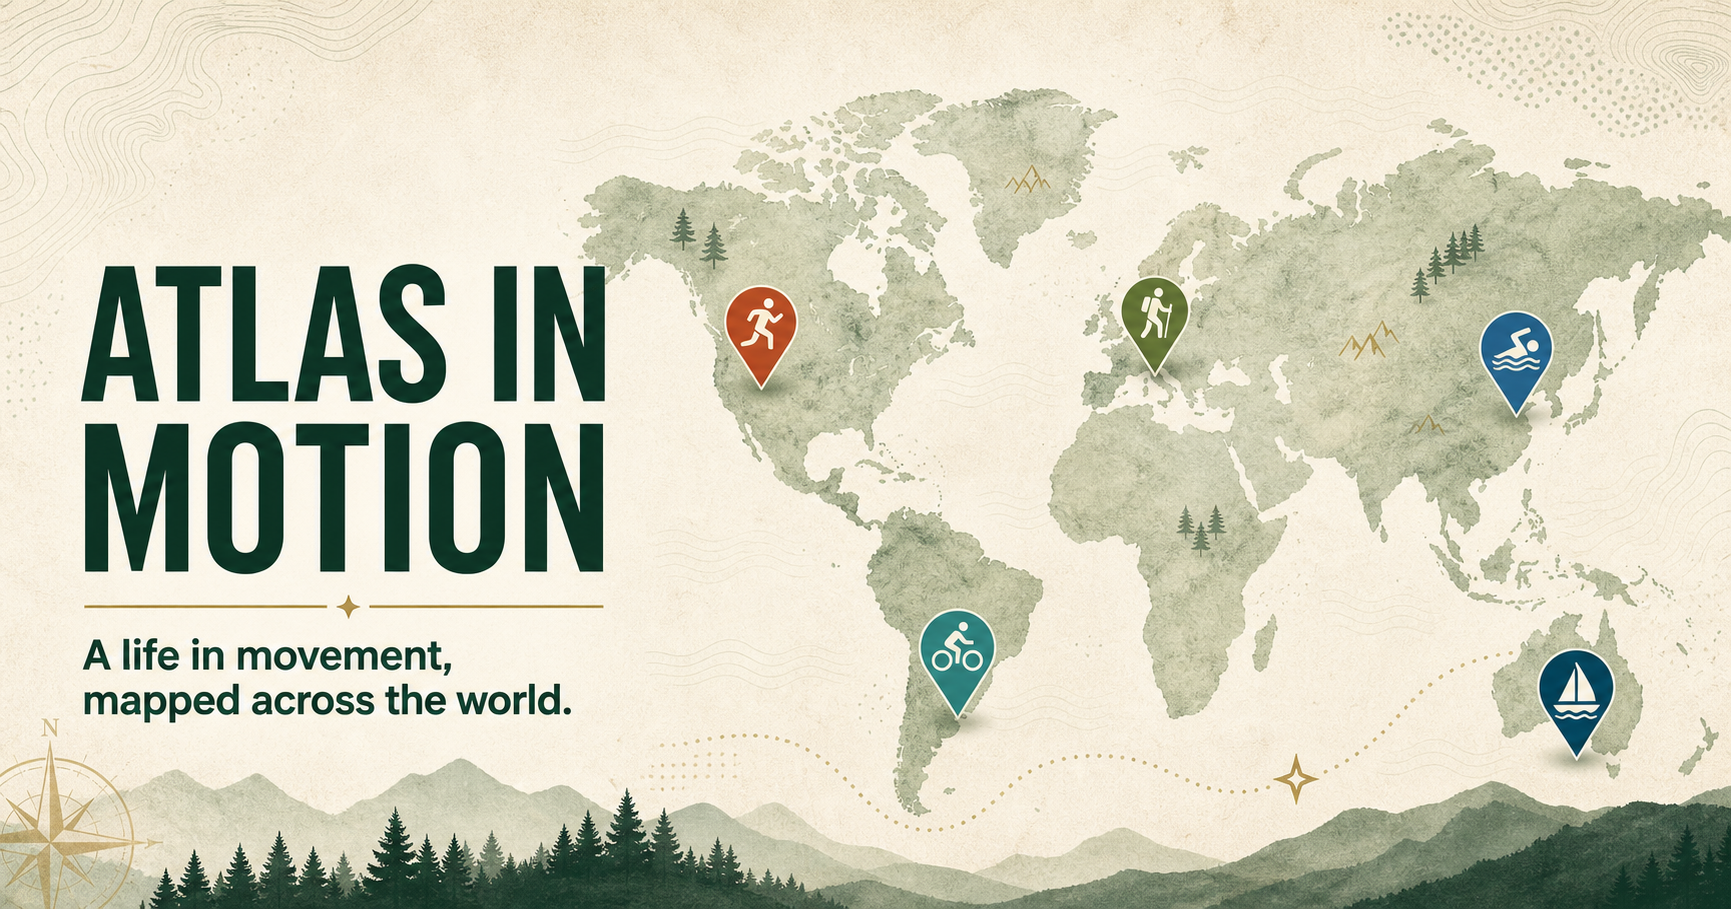
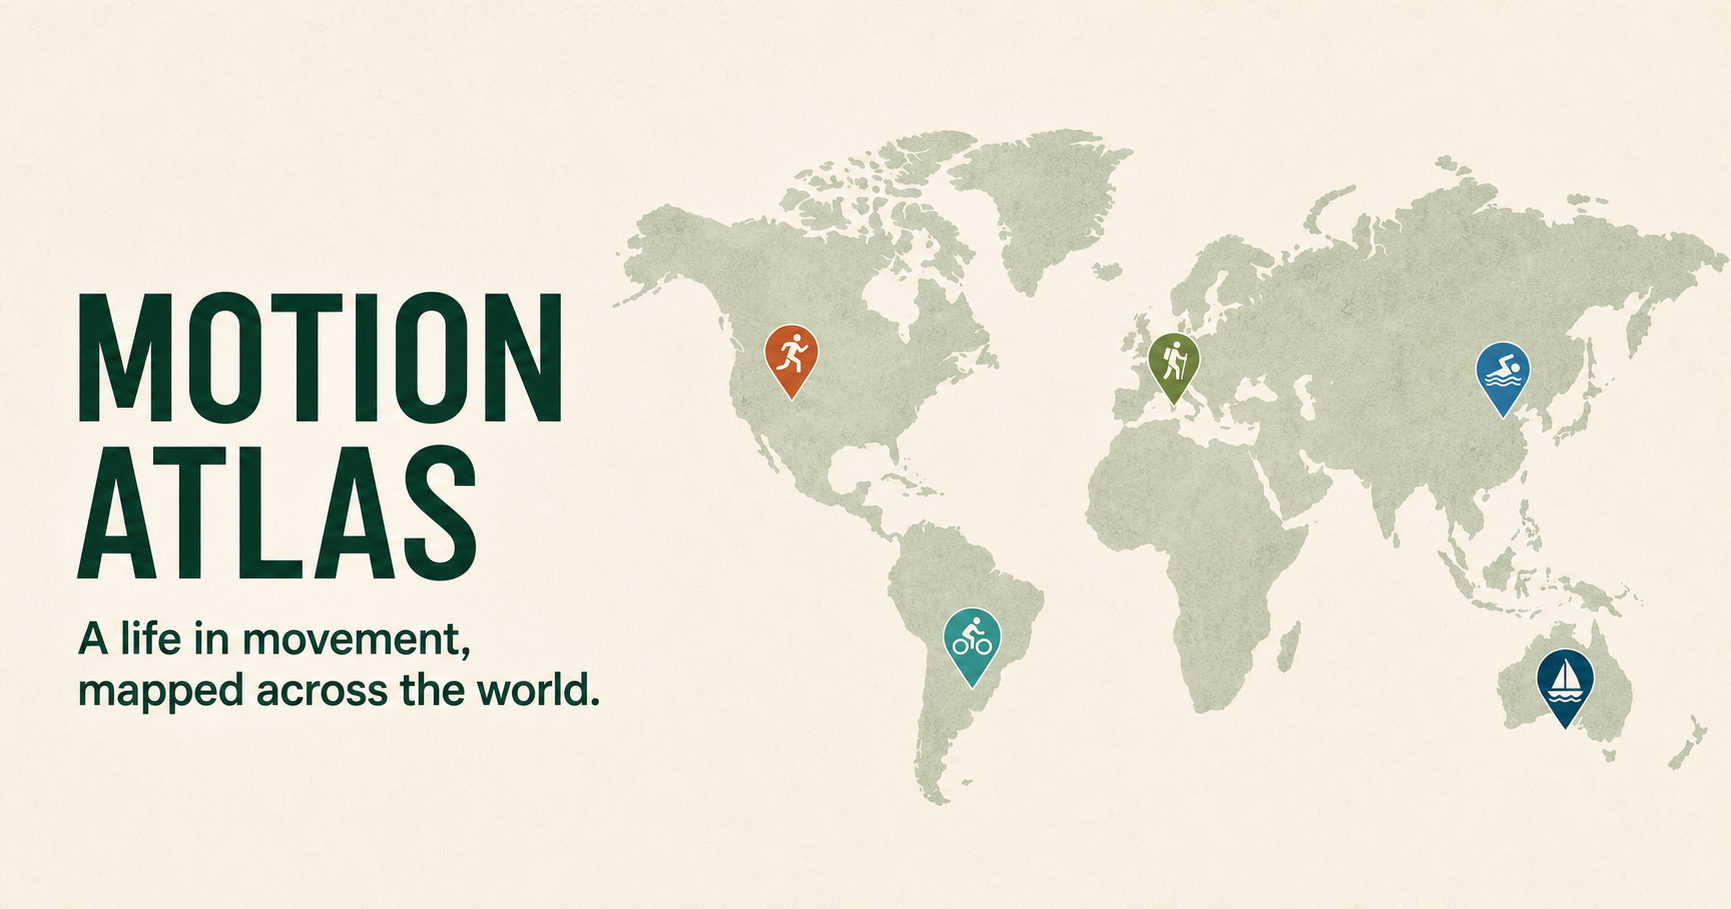
feat: rename and simplify Motion Atlas

diff --git a/src/styles.css b/src/styles.css
@@ -17,45 +17,55 @@ button { font: inherit; }
   inset: 0;
   z-index: 400;
   pointer-events: none;
-  box-shadow: inset 0 0 150px rgb(10 45 35 / 14%);
+  box-shadow: inset 0 0 100px rgb(10 45 35 / 7%);
 }
 
-.leaflet-tile-pane { filter: saturate(0.72) sepia(0.08) contrast(0.92) brightness(1.04); }
-.leaflet-control-zoom { border: 0 !important; box-shadow: 0 12px 30px rgb(16 48 38 / 20%) !important; }
+.leaflet-tile-pane { filter: saturate(0.62) contrast(0.93) brightness(1.06); }
+.leaflet-control-zoom { border: 1px solid #e2e3df !important; box-shadow: 0 6px 20px rgb(16 48 38 / 10%) !important; }
 .leaflet-control-zoom a { color: #173b30 !important; background: #fbfaf5 !important; }
 .leaflet-control-attribution { color: #68756f; background: rgb(250 249 244 / 86%) !important; }
 
 .explorer {
   position: absolute;
   z-index: 800;
-  top: 24px;
-  left: 24px;
-  width: min(392px, calc(100vw - 48px));
-  max-height: calc(100vh - 48px);
-  border: 1px solid rgb(255 255 255 / 66%);
-  border-radius: 26px;
-  background: rgb(250 249 244 / 93%);
-  box-shadow: 0 24px 68px rgb(12 42 33 / 22%);
-  backdrop-filter: blur(20px);
-  transition: width 180ms ease;
+  top: 20px;
+  left: 20px;
+  width: min(360px, calc(100vw - 40px));
+  max-height: calc(100vh - 40px);
+  border: 1px solid #dedfd9;
+  border-radius: 18px;
+  background: rgb(250 249 244 / 96%);
+  box-shadow: 0 10px 34px rgb(12 42 33 / 13%);
+  backdrop-filter: blur(16px);
+  transition: width 160ms ease, height 160ms ease, border-radius 160ms ease;
 }
 
-.explorer__content { max-height: calc(100vh - 48px); padding: 30px; overflow-y: auto; scrollbar-width: thin; }
+.explorer__content { max-height: calc(100vh - 40px); padding: 26px; overflow-y: auto; scrollbar-width: thin; }
 .panel-toggle {
   position: absolute;
   z-index: 2;
-  top: 16px;
-  right: 16px;
-  display: none;
+  top: 12px;
+  right: 12px;
+  display: grid;
+  place-items: center;
   width: 34px;
   height: 34px;
   padding: 0;
-  border: 1px solid #d9ddd8;
-  border-radius: 50%;
+  border: 0;
+  border-radius: 10px;
   color: #21463a;
-  background: #fffef9;
+  background: #f0f1ec;
   cursor: pointer;
 }
+
+.explorer.is-closed {
+  width: 52px;
+  height: 52px;
+  overflow: hidden;
+  border-radius: 16px;
+}
+.explorer.is-closed .panel-toggle { top: 8px; right: 8px; }
+.explorer.is-closed .explorer__content { visibility: hidden; pointer-events: none; }
 
 .brand-row { display: flex; align-items: center; gap: 10px; margin: 0 0 16px; }
 .brand-row p { margin: 0; color: #a94f34; font-size: 0.67rem; font-weight: 800; letter-spacing: 0.15em; }
@@ -68,7 +78,7 @@ button { font: inherit; }
 h1 {
   margin: 0;
   max-width: 300px;
-  font-size: clamp(2.25rem, 4vw, 3.35rem);
+  font-size: clamp(2.15rem, 4vw, 3rem);
   font-weight: 760;
   line-height: 0.96;
   letter-spacing: -0.064em;
@@ -104,8 +114,8 @@ h1 {
   cursor: pointer;
   transition: border-color 140ms ease, background 140ms ease, color 140ms ease, transform 140ms ease;
 }
-.sport-filter:hover { transform: translateY(-1px); border-color: color-mix(in srgb, var(--sport-color) 44%, #d9ddd8); }
-.sport-filter.is-active { color: #1d332b; border-color: color-mix(in srgb, var(--sport-color) 38%, white); background: color-mix(in srgb, var(--sport-color) 9%, #fffef9); }
+.sport-filter:hover { border-color: color-mix(in srgb, var(--sport-color) 28%, #d9ddd8); }
+.sport-filter.is-active { color: #1d332b; border-color: #d8dad5; background: #f2f2ed; }
 .sport-filter__icon { display: grid; width: 26px; height: 26px; place-items: center; border-radius: 9px; color: var(--sport-color); background: color-mix(in srgb, var(--sport-color) 12%, white); }
 .sport-filter__icon svg { width: 13px; height: 13px; }
 .sport-filter__label { overflow: hidden; font-size: 0.75rem; font-weight: 650; text-overflow: ellipsis; white-space: nowrap; }
@@ -128,30 +138,30 @@ h1 {
   border-radius: 999px;
   color: #54645e;
   background: rgb(250 249 244 / 90%);
-  box-shadow: 0 10px 30px rgb(12 42 33 / 15%);
+  box-shadow: 0 6px 20px rgb(12 42 33 / 9%);
   font-size: 0.7rem;
   backdrop-filter: blur(14px);
 }
 .live-dot { width: 7px; height: 7px; border-radius: 50%; background: #42a66f; box-shadow: 0 0 0 3px rgb(66 166 111 / 15%); }
 
 .sport-marker { border: 0; background: transparent; }
-.sport-pin { position: relative; width: 54px; height: 62px; filter: drop-shadow(0 8px 7px rgb(7 37 28 / 24%)); transition: transform 150ms ease; }
+.sport-pin { position: relative; width: 42px; height: 48px; filter: drop-shadow(0 5px 5px rgb(7 37 28 / 19%)); transition: transform 150ms ease; }
 .sport-marker:hover .sport-pin { transform: translateY(-3px); }
 .sport-pin::before {
   content: "";
   position: absolute;
-  left: 7px;
+  left: 6px;
   top: 2px;
-  width: 40px;
-  height: 40px;
-  border: 4px solid #f9f8f2;
-  border-radius: 50% 50% 50% 12px;
+  width: 30px;
+  height: 30px;
+  border: 3px solid #f9f8f2;
+  border-radius: 50% 50% 50% 9px;
   background: var(--sport-color);
   transform: rotate(-45deg);
 }
-.sport-pin__glyph { position: absolute; z-index: 1; top: 11px; left: 16px; display: grid; width: 22px; height: 22px; place-items: center; color: white; }
-.sport-pin__glyph svg { width: 20px; height: 20px; }
-.sport-pin__count { position: absolute; z-index: 2; top: -4px; right: 0; min-width: 22px; height: 22px; padding: 0 6px; border: 2px solid #f9f8f2; border-radius: 11px; color: #173229; background: #f4d974; box-shadow: 0 4px 8px rgb(14 43 34 / 18%); font-size: 0.64rem; font-weight: 800; line-height: 18px; text-align: center; }
+.sport-pin__glyph { position: absolute; z-index: 1; top: 9px; left: 13px; display: grid; width: 16px; height: 16px; place-items: center; color: white; }
+.sport-pin__glyph svg { width: 14px; height: 14px; }
+.sport-pin__count { position: absolute; z-index: 2; top: -3px; right: -2px; min-width: 18px; height: 18px; padding: 0 4px; border: 2px solid #f9f8f2; border-radius: 9px; color: #173229; background: #f4d974; box-shadow: 0 3px 7px rgb(14 43 34 / 14%); font-size: 0.54rem; font-weight: 800; line-height: 14px; text-align: center; }
 
 .activity-popup .leaflet-popup-content-wrapper { overflow: hidden; border-radius: 18px; background: #fbfaf5; box-shadow: 0 18px 55px rgb(8 38 29 / 25%); }
 .activity-popup .leaflet-popup-content { margin: 0; width: auto !important; }
@@ -168,10 +178,8 @@ h1 {
 @media (max-width: 720px) {
   .explorer { top: 12px; left: 12px; width: calc(100vw - 24px); max-height: calc(100vh - 24px); border-radius: 22px; }
   .explorer__content { max-height: calc(100vh - 24px); padding: 23px; }
-  .panel-toggle { display: grid; place-items: center; }
-  .explorer.is-closed { width: 62px; height: 62px; overflow: hidden; }
-  .explorer.is-closed .panel-toggle { top: 13px; right: 13px; }
-  .explorer.is-closed .explorer__content { visibility: hidden; }
+  .explorer.is-closed { width: 52px; height: 52px; }
+  .explorer.is-closed .panel-toggle { top: 8px; right: 8px; }
   .map-caption { top: auto; right: 12px; bottom: 30px; max-width: calc(100vw - 84px); overflow: hidden; text-overflow: ellipsis; white-space: nowrap; }
   .sport-filters { grid-template-columns: 1fr; }
   .leaflet-control-attribution { max-width: 70vw; overflow: hidden; text-overflow: ellipsis; white-space: nowrap; }

diff --git a/index.html b/index.html
@@ -9,18 +9,18 @@
       content="A privacy-conscious world map of Garmin activities, grouped by sport and year."
     />
     <meta property="og:type" content="website" />
-    <meta property="og:title" content="Atlas in Motion" />
+    <meta property="og:title" content="Motion Atlas" />
     <meta
       property="og:description"
       content="A life in movement, mapped across the world."
     />
-    <meta property="og:url" content="https://icegit.github.io/garmin-activity-map/" />
-    <meta property="og:image" content="https://icegit.github.io/garmin-activity-map/og.png" />
+    <meta property="og:url" content="https://icegit.github.io/motion-atlas/" />
+    <meta property="og:image" content="https://icegit.github.io/motion-atlas/og.png" />
     <meta name="twitter:card" content="summary_large_image" />
-    <meta name="twitter:title" content="Atlas in Motion" />
+    <meta name="twitter:title" content="Motion Atlas" />
     <meta name="twitter:description" content="A life in movement, mapped across the world." />
-    <meta name="twitter:image" content="https://icegit.github.io/garmin-activity-map/og.png" />
-    <title>Atlas in Motion</title>
+    <meta name="twitter:image" content="https://icegit.github.io/motion-atlas/og.png" />
+    <title>Motion Atlas</title>
   </head>
   <body>
     <div id="root"></div>

diff --git a/src/main.jsx b/src/main.jsx
@@ -72,9 +72,9 @@ function ActivityMap({ groups, activeSports }) {
         icon: L.divIcon({
           className: "sport-marker",
           html: markerMarkup(group),
-          iconSize: [54, 62],
-          iconAnchor: [27, 54],
-          popupAnchor: [0, -50],
+          iconSize: [42, 48],
+          iconAnchor: [21, 43],
+          popupAnchor: [0, -39],
         }),
       });
       marker.bindPopup(popupMarkup(group), {
@@ -108,7 +108,7 @@ function App() {
   const [data, setData] = useState(null);
   const [error, setError] = useState("");
   const [activeSports, setActiveSports] = useState(new Set());
-  const [panelOpen, setPanelOpen] = useState(true);
+  const [panelOpen, setPanelOpen] = useState(false);
 
   useEffect(() => {
     let cancelled = false;
@@ -169,7 +169,7 @@ function App() {
             <span className="brand-mark" aria-hidden="true"><i /><i /><i /></span>
             <p>GARMIN ACTIVITY ARCHIVE</p>
           </div>
-          <h1>Atlas in Motion</h1>
+          <h1>Motion Atlas</h1>
           <p className="lede">A life in movement, mapped across the world.</p>
 
           {error ? <div className="notice notice--error">{error}</div> : null}

diff --git a/README.md b/README.md
@@ -1,4 +1,4 @@
-# Atlas in Motion
+# Motion Atlas
 
 A privacy-conscious OpenStreetMap view of Garmin Connect activities. Activities of the same sport whose start points are connected within a 100 km radius are published as one marker. Clicking a marker shows the activity count for each year.
 
